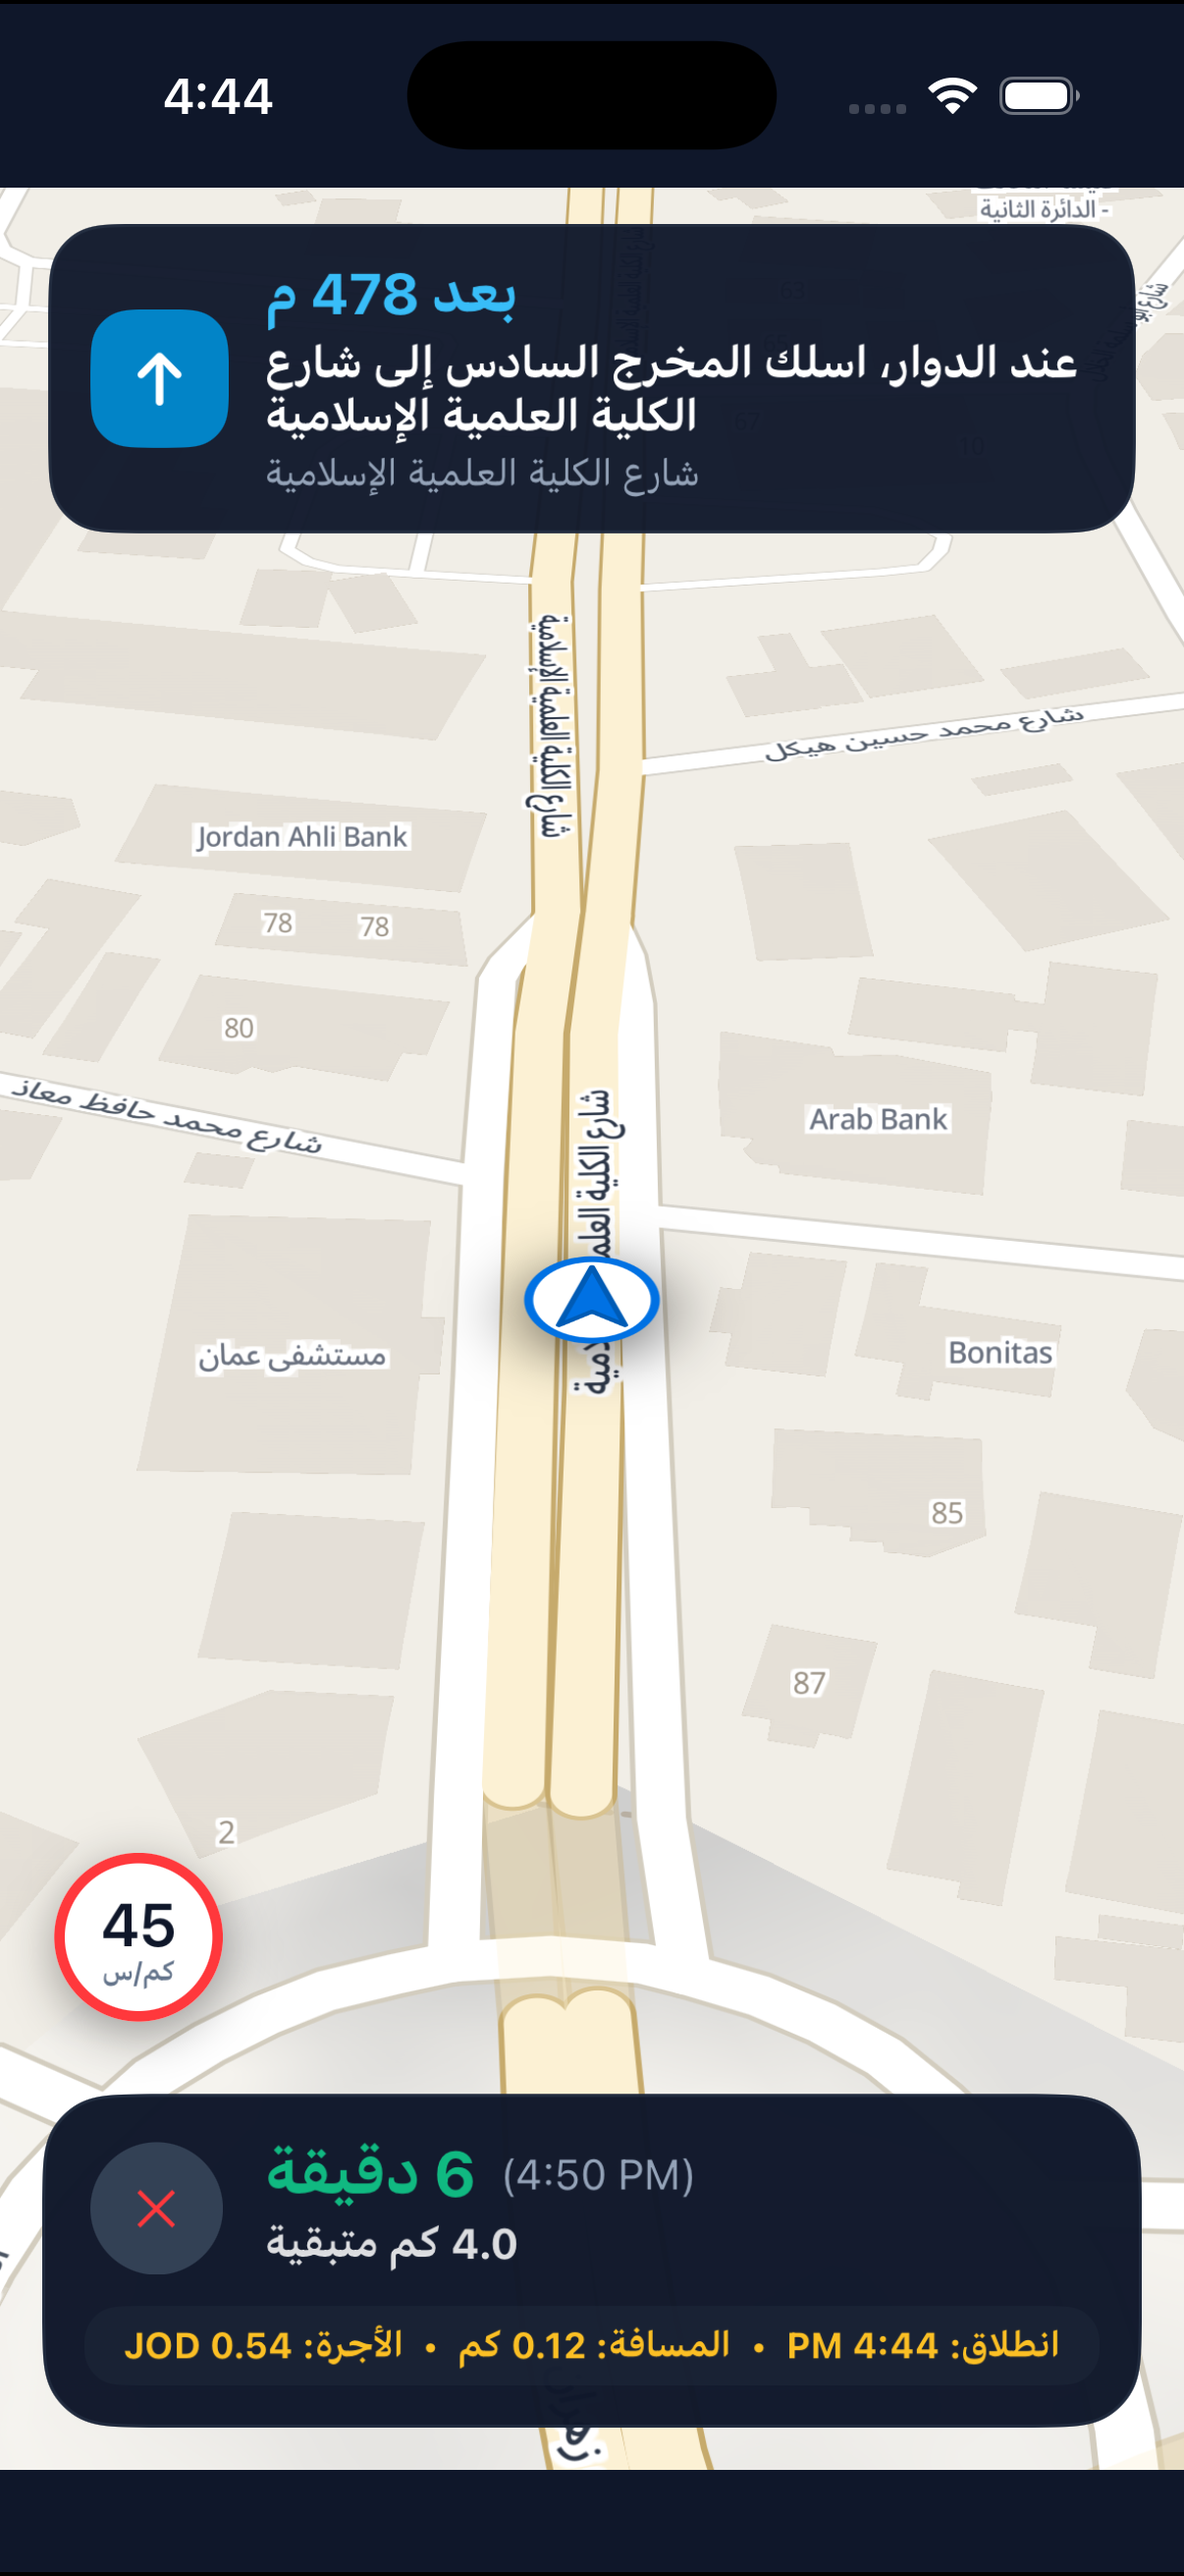
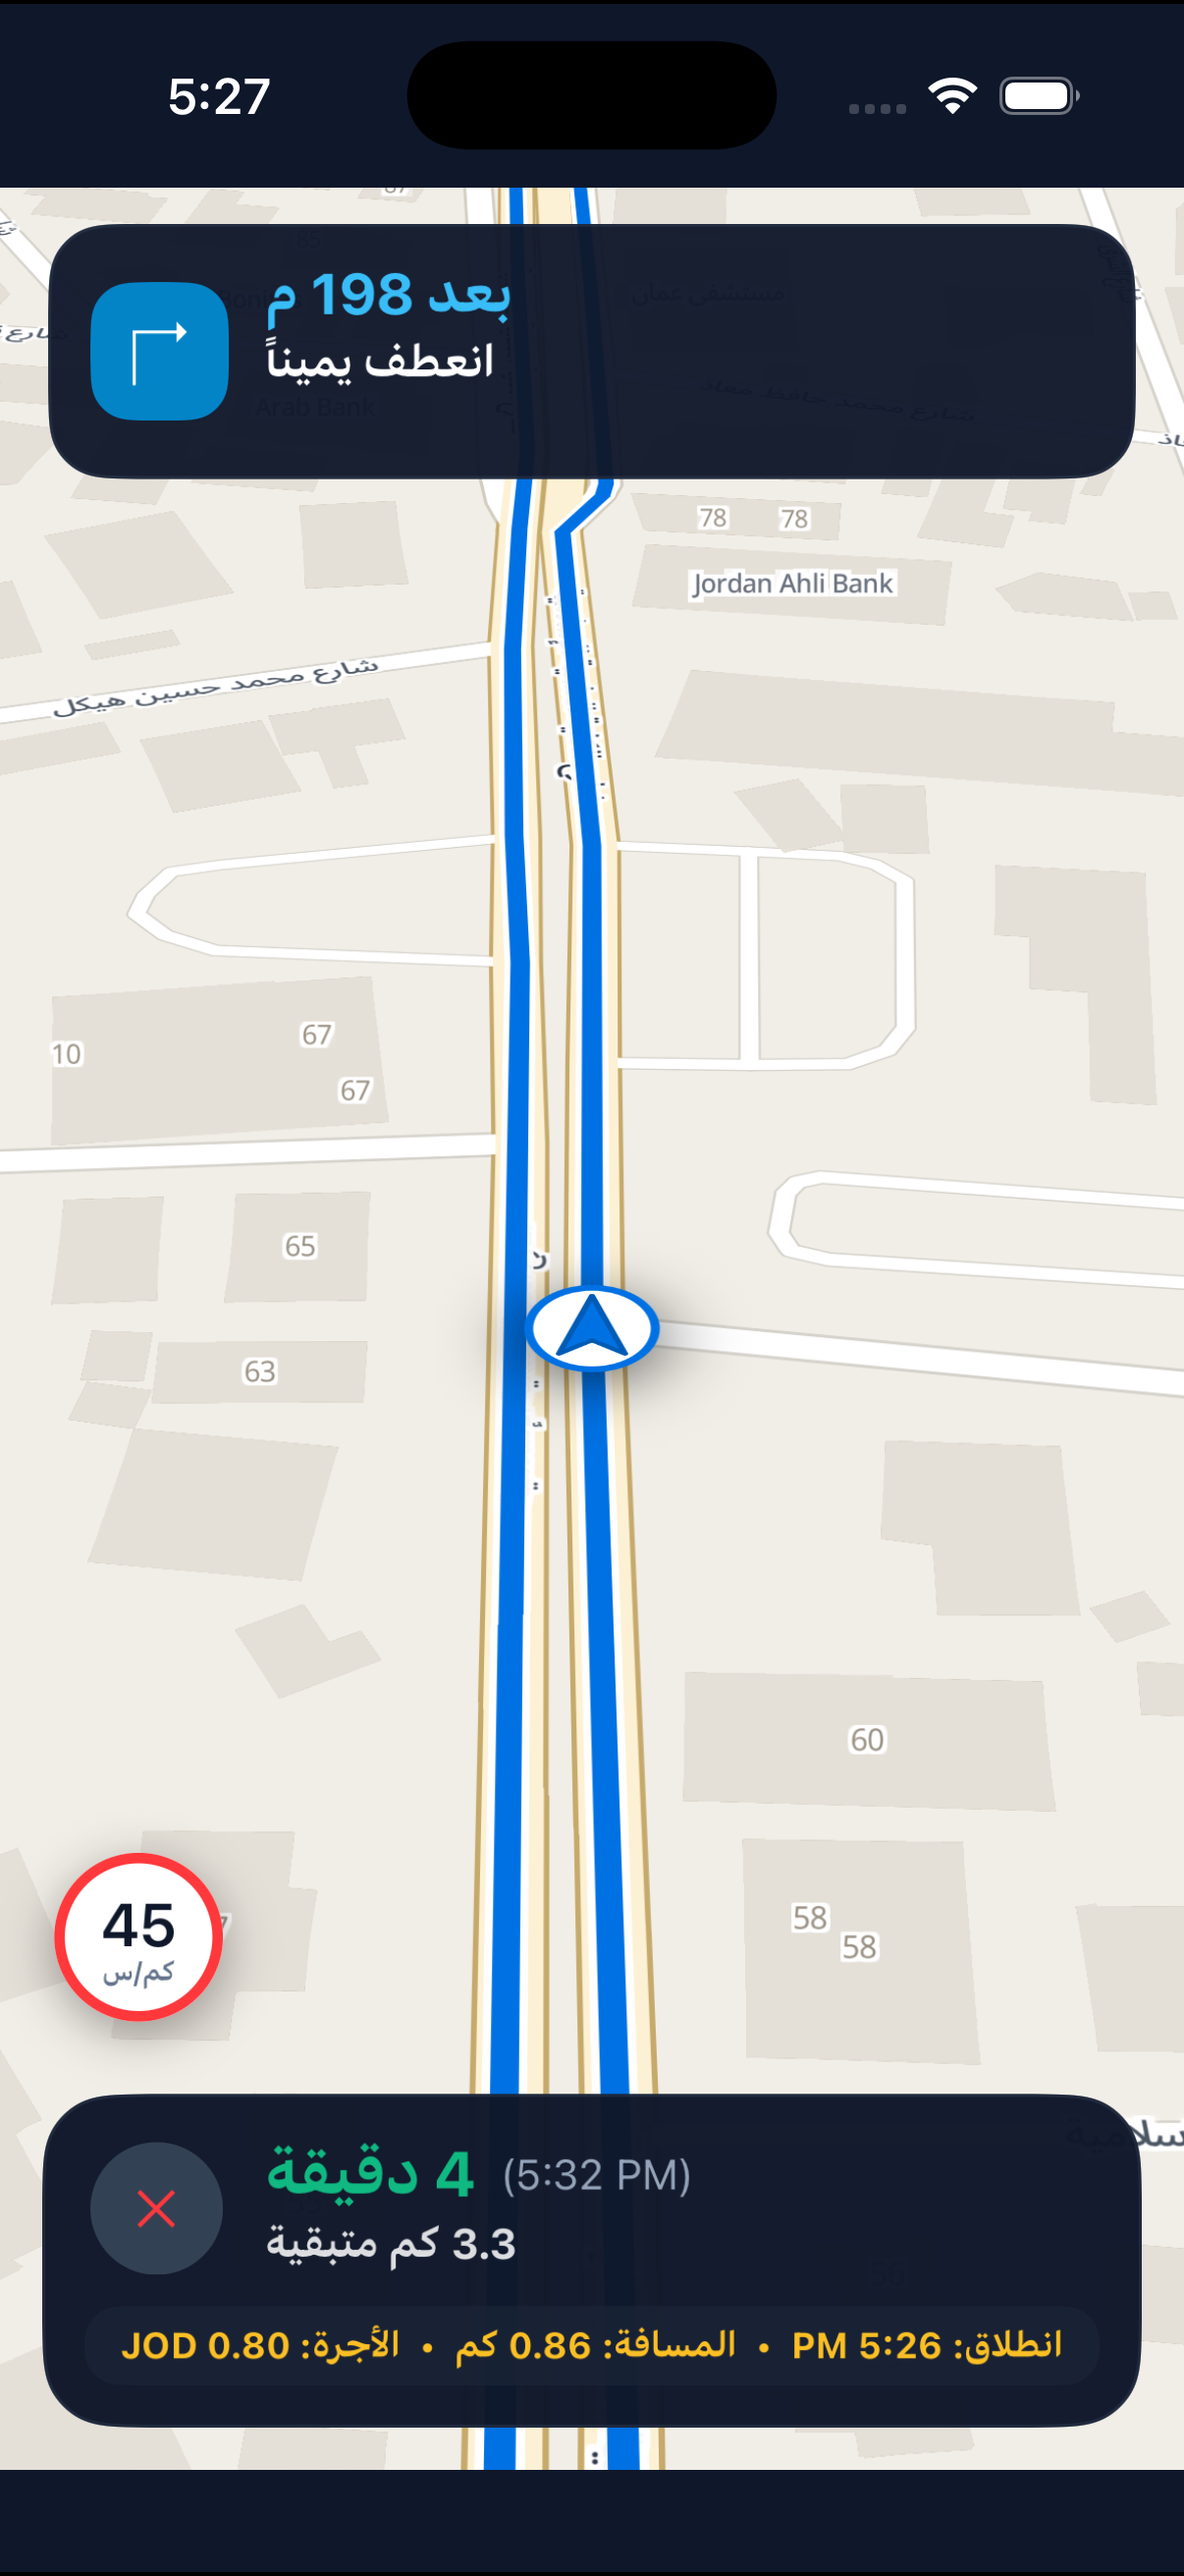
fix(ios): ensure route polyline renders reliably on map with styling and lifecycle synchronization

diff --git a/SampleApp/Sources/AppDelegate.swift b/SampleApp/Sources/AppDelegate.swift
@@ -49,6 +49,7 @@ class ViewController: UIViewController, SiroNavListener, WKScriptMessageHandler,
     private var simTimer: Timer?
     private var fixes: [NavPoint] = []
     private var currentFixIndex = 0
+    private var cachedRouteCoordsJson: String?
 
     override func viewDidLoad() {
         super.viewDidLoad()
@@ -105,6 +106,19 @@ class ViewController: UIViewController, SiroNavListener, WKScriptMessageHandler,
         <body>
             <div id="map"></div>
             <script>
+                window.console.log = function() {
+                    var msg = Array.from(arguments).join(' ');
+                    if (window.webkit && window.webkit.messageHandlers && window.webkit.messageHandlers.siroNavBridge) {
+                        window.webkit.messageHandlers.siroNavBridge.postMessage({ type: 'log', message: msg });
+                    }
+                };
+                window.console.error = function() {
+                    var msg = Array.from(arguments).join(' ');
+                    if (window.webkit && window.webkit.messageHandlers && window.webkit.messageHandlers.siroNavBridge) {
+                        window.webkit.messageHandlers.siroNavBridge.postMessage({ type: 'error', message: msg });
+                    }
+                };
+
                 if (maplibregl.getRTLTextPluginStatus() === 'unavailable') {
                     maplibregl.setRTLTextPlugin(
                         'https://unpkg.com/@mapbox/mapbox-gl-rtl-text@0.2.3/mapbox-gl-rtl-text.min.js',
@@ -125,6 +139,71 @@ class ViewController: UIViewController, SiroNavListener, WKScriptMessageHandler,
 
                 var vehicleMarker = null;
                 var vehicleEl = null;
+                var cachedRouteCoords = null;
+
+                function renderRouteOnMap() {
+                    if (!cachedRouteCoords || !map) return;
+                    try {
+                        if (!map.isStyleLoaded()) {
+                            return;
+                        }
+                        var source = map.getSource('nav-route-source');
+                        if (!source) {
+                            map.addSource('nav-route-source', {
+                                type: 'geojson',
+                                data: {
+                                    type: 'Feature',
+                                    properties: {},
+                                    geometry: {
+                                        type: 'LineString',
+                                        coordinates: cachedRouteCoords
+                                    }
+                                }
+                            });
+
+                            if (!map.getLayer('nav-route-casing')) {
+                                map.addLayer({
+                                    id: 'nav-route-casing',
+                                    type: 'line',
+                                    source: 'nav-route-source',
+                                    layout: { 'line-join': 'round', 'line-cap': 'round' },
+                                    paint: {
+                                        'line-color': '#FFFFFF',
+                                        'line-width': 12.0,
+                                        'line-opacity': 0.95
+                                    }
+                                });
+                            }
+
+                            if (!map.getLayer('nav-route-line')) {
+                                map.addLayer({
+                                    id: 'nav-route-line',
+                                    type: 'line',
+                                    source: 'nav-route-source',
+                                    layout: { 'line-join': 'round', 'line-cap': 'round' },
+                                    paint: {
+                                        'line-color': '#0071E3',
+                                        'line-width': 7.5,
+                                        'line-opacity': 1.0
+                                    }
+                                });
+                            }
+                            console.log('Route polyline layers added with ' + cachedRouteCoords.length + ' points');
+                        } else {
+                            source.setData({
+                                type: 'Feature',
+                                properties: {},
+                                geometry: {
+                                    type: 'LineString',
+                                    coordinates: cachedRouteCoords
+                                }
+                            });
+                            console.log('Route source updated with ' + cachedRouteCoords.length + ' points');
+                        }
+                    } catch(e) {
+                        console.error('renderRouteOnMap error: ' + e);
+                    }
+                }
 
                 map.on('load', function() {
                     vehicleEl = document.createElement('div');
@@ -139,39 +218,27 @@ class ViewController: UIViewController, SiroNavListener, WKScriptMessageHandler,
                     .setLngLat([35.9106, 31.9539])
                     .addTo(map);
 
-                    map.addSource('nav-route-source', {
-                        type: 'geojson',
-                        data: { type: 'Feature', geometry: { type: 'LineString', coordinates: [] } }
-                    });
+                    renderRouteOnMap();
 
-                    map.addLayer({
-                        id: 'nav-route-casing',
-                        type: 'line',
-                        source: 'nav-route-source',
-                        layout: { 'line-join': 'round', 'line-cap': 'round' },
-                        paint: { 'line-color': '#FFFFFF', 'line-width': 10.0 }
-                    });
+                    if (window.webkit && window.webkit.messageHandlers && window.webkit.messageHandlers.siroNavBridge) {
+                        window.webkit.messageHandlers.siroNavBridge.postMessage({ type: 'mapReady' });
+                    }
+                });
 
-                    map.addLayer({
-                        id: 'nav-route-line',
-                        type: 'line',
-                        source: 'nav-route-source',
-                        layout: { 'line-join': 'round', 'line-cap': 'round' },
-                        paint: { 'line-color': '#0071E3', 'line-width': 6.5 }
-                    });
+                map.on('styledata', function() {
+                    renderRouteOnMap();
                 });
 
                 function setRoute(coordsJson) {
                     try {
-                        var coords = JSON.parse(coordsJson);
-                        var source = map.getSource('nav-route-source');
-                        if (source) {
-                            source.setData({
-                                type: 'Feature',
-                                geometry: { type: 'LineString', coordinates: coords }
-                            });
+                        var coords = (typeof coordsJson === 'string') ? JSON.parse(coordsJson) : coordsJson;
+                        if (Array.isArray(coords) && coords.length > 0) {
+                            cachedRouteCoords = coords;
+                            renderRouteOnMap();
                         }
-                    } catch(e) {}
+                    } catch(e) {
+                        console.error('setRoute parse error: ' + e);
+                    }
                 }
 
                 function calculateSmartZoom(speed) {
@@ -183,6 +250,9 @@ class ViewController: UIViewController, SiroNavListener, WKScriptMessageHandler,
                 }
 
                 function updateVehiclePosition(lat, lng, heading, speed) {
+                    if (cachedRouteCoords && !map.getSource('nav-route-source')) {
+                        renderRouteOnMap();
+                    }
                     if (vehicleMarker) {
                         vehicleMarker.setLngLat([lng, lat]);
                         if (heading >= 0) {
@@ -298,6 +368,7 @@ class ViewController: UIViewController, SiroNavListener, WKScriptMessageHandler,
                     }
                     if let data = try? JSONSerialization.data(withJSONObject: coords),
                        let jsonStr = String(data: data, encoding: .utf8) {
+                        self.cachedRouteCoordsJson = jsonStr
                         self.webView.evaluateJavaScript("setRoute('\(jsonStr)');")
                     }
 
@@ -329,6 +400,10 @@ class ViewController: UIViewController, SiroNavListener, WKScriptMessageHandler,
                             timestamp: fix.timestamp
                         )
                         self.navController.updateLocation(loc)
+
+                        if self.currentFixIndex <= 5, let jsonStr = self.cachedRouteCoordsJson {
+                            self.webView.evaluateJavaScript("setRoute('\(jsonStr)');")
+                        }
 
                         // Update Vehicle in map view
                         self.webView.evaluateJavaScript("updateVehiclePosition(\(fix.latitude), \(fix.longitude), \(fix.heading), \(fix.speedKmh));")
@@ -390,5 +465,17 @@ class ViewController: UIViewController, SiroNavListener, WKScriptMessageHandler,
     }
 
     // MARK: - WKScriptMessageHandler
-    func userContentController(_ userContentController: WKUserContentController, didReceive message: WKScriptMessage) {}
+    func userContentController(_ userContentController: WKUserContentController, didReceive message: WKScriptMessage) {
+        guard let dict = message.body as? [String: Any], let type = dict["type"] as? String else { return }
+        if type == "mapReady" {
+            print("[ViewController] mapReady received")
+            if let jsonStr = self.cachedRouteCoordsJson {
+                self.webView.evaluateJavaScript("setRoute('\(jsonStr)');")
+            }
+        } else if type == "log", let msg = dict["message"] as? String {
+            print("[JS Log] \(msg)")
+        } else if type == "error", let msg = dict["message"] as? String {
+            print("[JS Error] \(msg)")
+        }
+    }
 }
